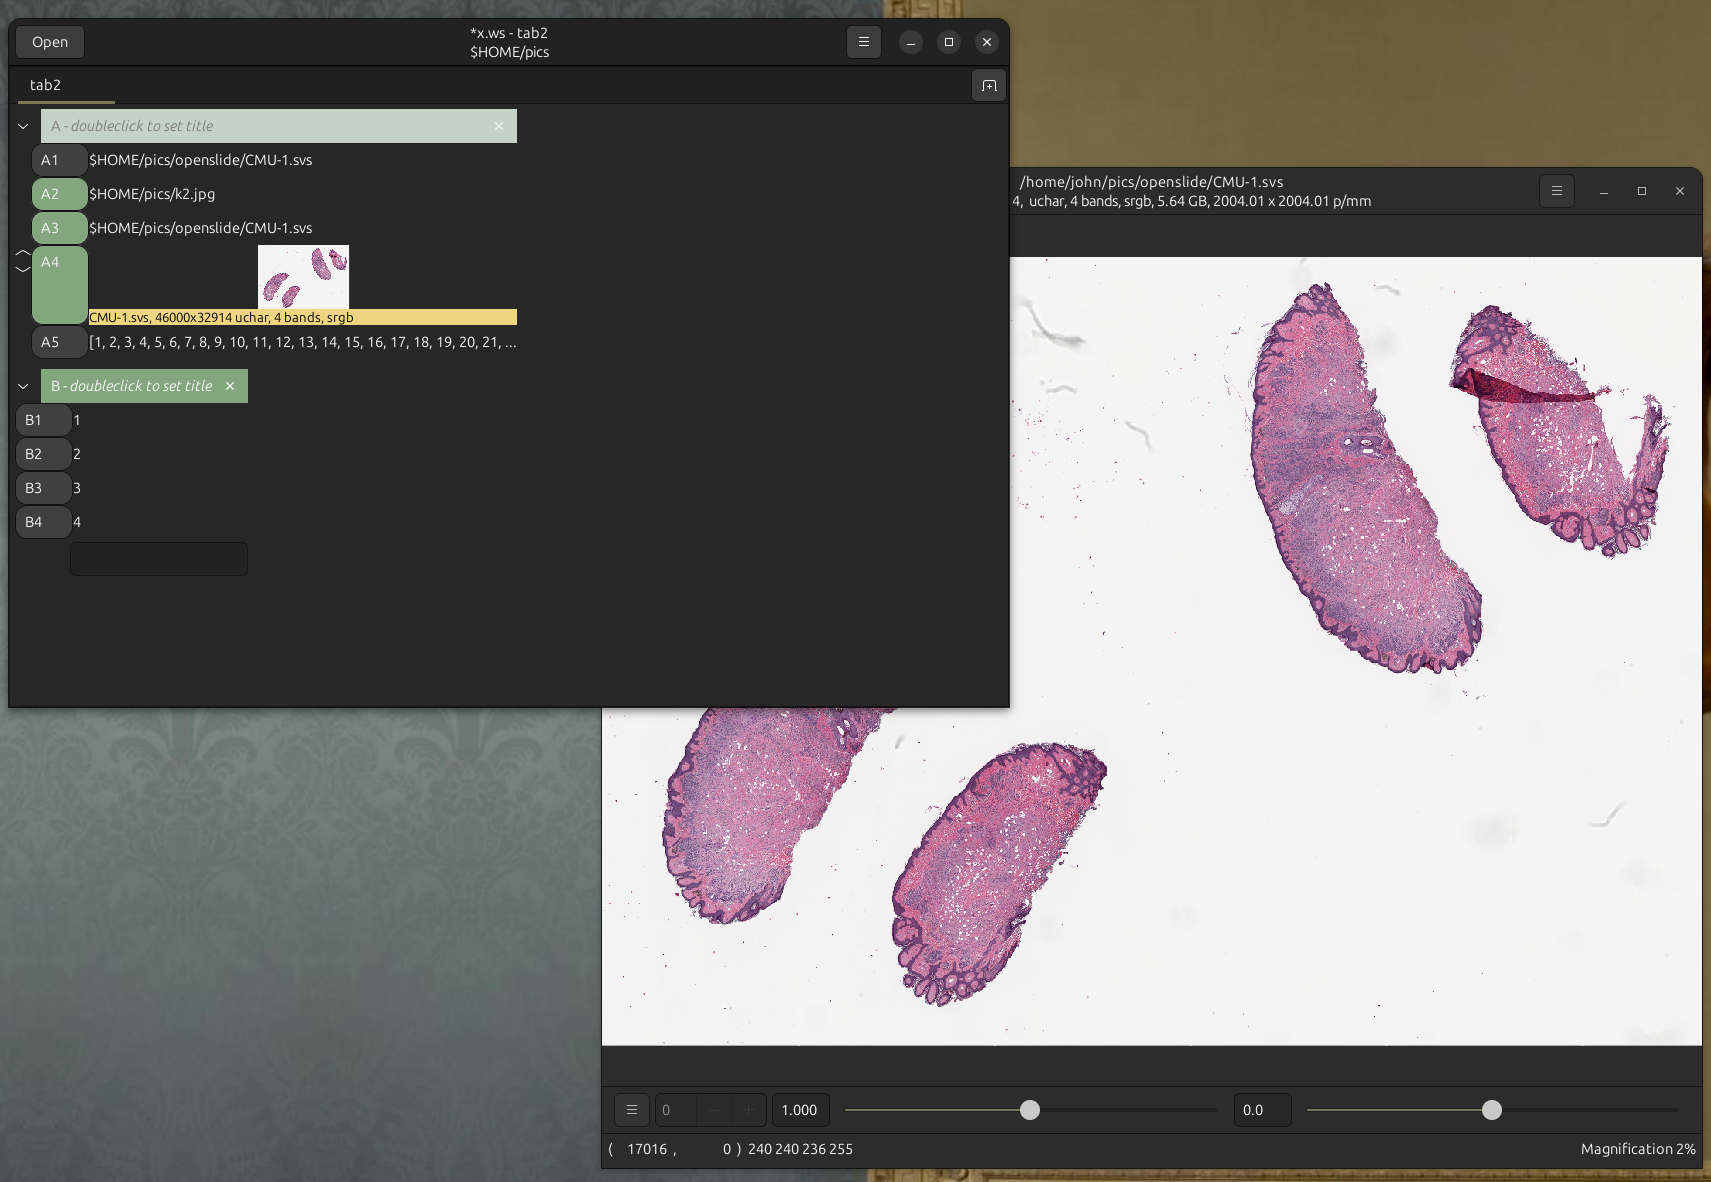
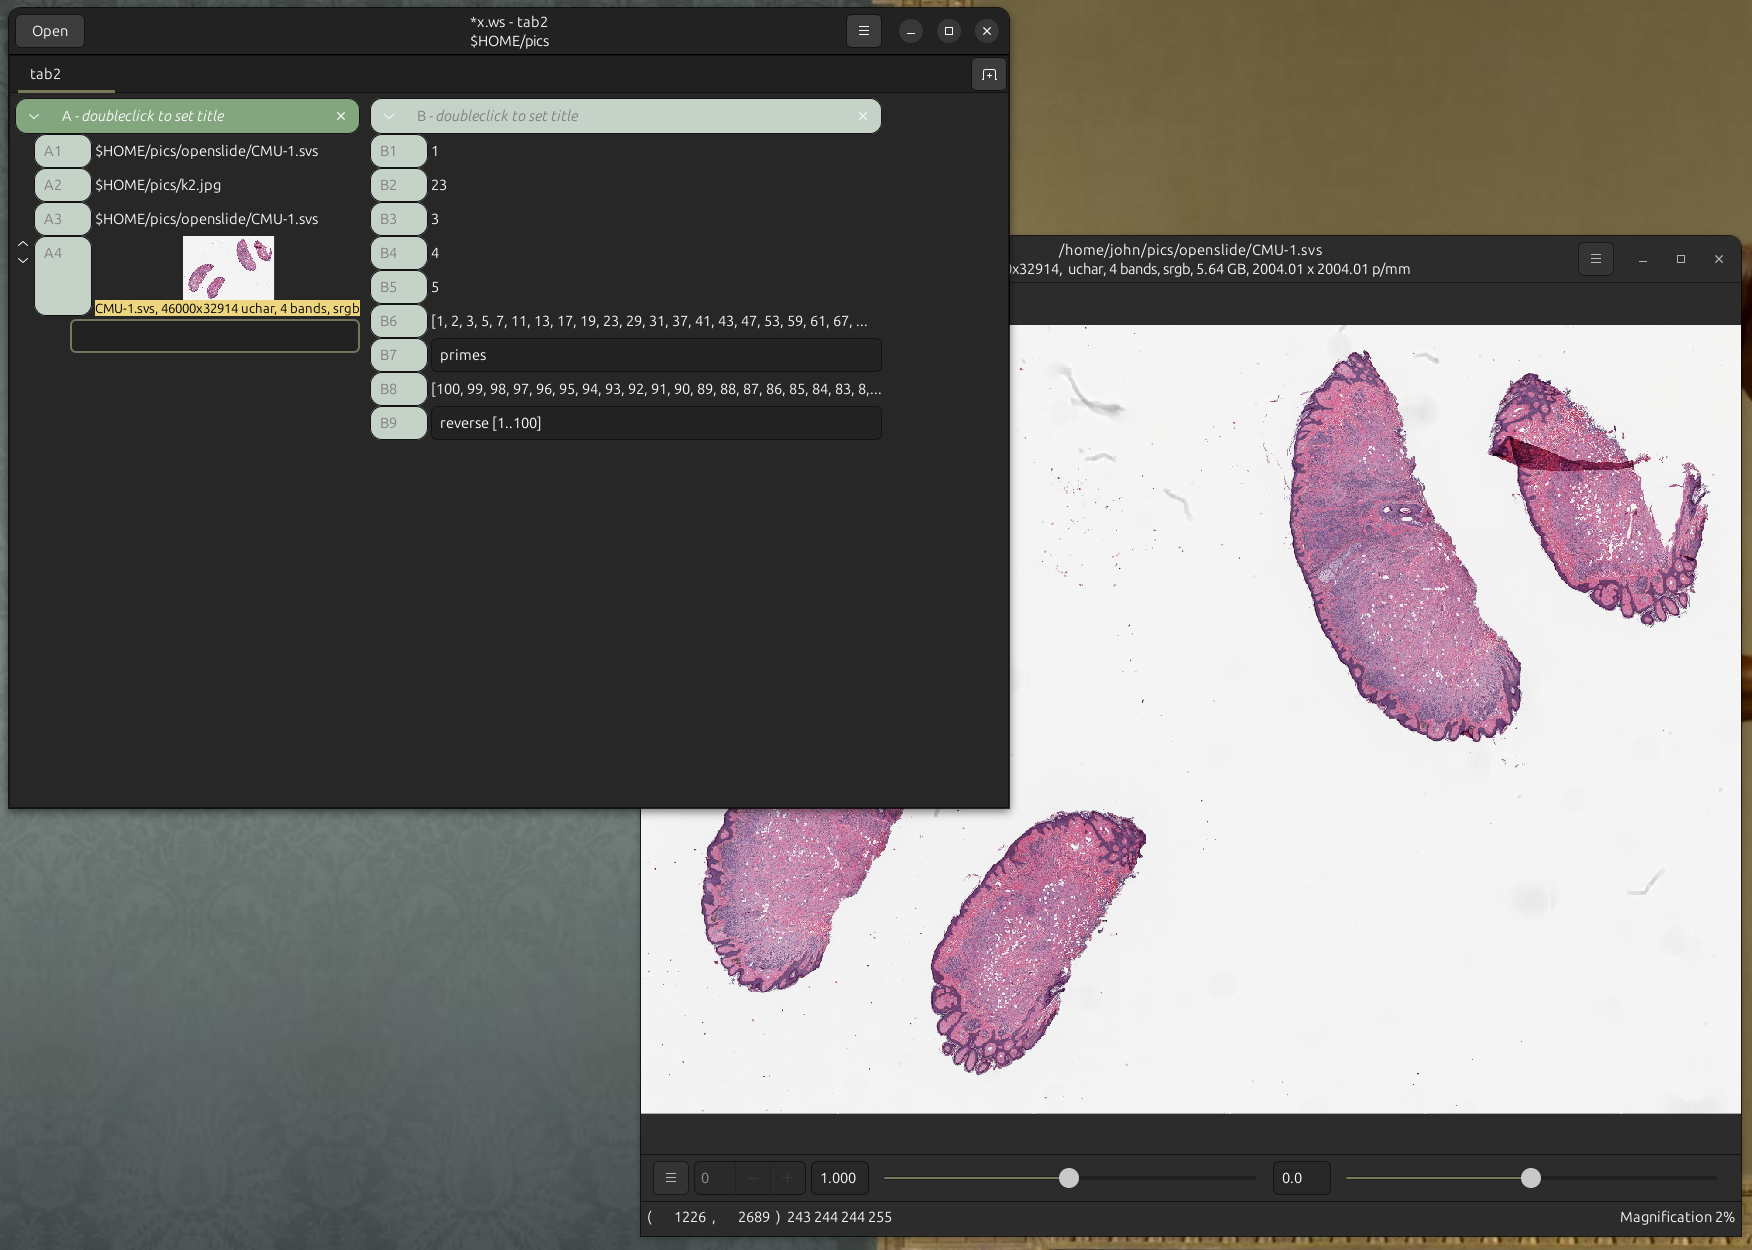
style columnview

Changed region(s): [[0.0, 0.0, 1.0, 1.0]]

diff --git a/src/gtk/nip4.css b/src/gtk/nip4.css
@@ -20,7 +20,8 @@
 }
 
 .widget {
-  background-color: #404040;
+  background-color: #C5D2C8;
+  color: grey;
 }
 
 

diff --git a/src/columnview.c b/src/columnview.c
@@ -527,7 +527,9 @@ columnview_refresh(vObject *vobject)
 
 	/* Set open/closed.
 	 */
-	gtk_expander_set_expanded(GTK_EXPANDER(cview->top), col->open);
+	gtk_button_set_icon_name(GTK_BUTTON(cview->expand_button), col->open ?
+		"pan-down-symbolic" : "pan-end-symbolic");
+	gtk_widget_set_visible(cview->body, col->open);
 
 	/* Closed columns are hidden in NOEDIT mode.
 	 */
@@ -642,6 +644,15 @@ columnview_scrollto(View *view, ModelScrollPosition position)
 }
 
 static void
+columnview_expand_clicked(GtkGestureClick *gesture,
+	guint n_press, double x, double y, Columnview *cview)
+{
+	Column *col = COLUMN(VOBJECT(cview)->iobject);
+
+	column_set_open(col, !col->open);
+}
+
+static void
 columnview_menu(GtkGestureClick *gesture,
 	guint n_press, double x, double y, Columnview *cview)
 {
@@ -717,12 +728,14 @@ columnview_class_init(ColumnviewClass *class)
 	gtk_widget_class_set_layout_manager_type(GTK_WIDGET_CLASS(class),
 		GTK_TYPE_BIN_LAYOUT);
 
+	BIND_CALLBACK(columnview_expand_clicked);
 	BIND_CALLBACK(columnview_menu);
 	BIND_CALLBACK(columnview_activate);
 	BIND_CALLBACK(columnview_close_clicked);
 
 	BIND_VARIABLE(Columnview, top);
 	BIND_VARIABLE(Columnview, title);
+	BIND_VARIABLE(Columnview, expand_button);
 	BIND_VARIABLE(Columnview, label);
 	BIND_VARIABLE(Columnview, head);
 	BIND_VARIABLE(Columnview, body);

diff --git a/src/columnview.h b/src/columnview.h
@@ -57,13 +57,14 @@ struct _Columnview {
 
 	/* Display parts.
 	 */
-	GtkWidget *top;		/* Enclosing widget for the whole cview */
-	GtkWidget *title;	/* Columnview titlebar */
-	GtkWidget *label;	/* Columnview name label */
-	GtkWidget *head;	/* Columnview caption */
-	GtkWidget *entry;	/* Text entry at bottom */
-	GtkWidget *capedit; /* Shadow text for editing caption */
-	GtkWidget *body;	/* The body of the columnview */
+	GtkWidget *top;				/* Enclosing widget for the whole cview */
+	GtkWidget *title;			/* Columnview titlebar */
+	GtkWidget *expand_button;	/* Expander button */
+	GtkWidget *label;			/* Columnview name label */
+	GtkWidget *head;			/* Columnview caption */
+	GtkWidget *entry;			/* Text entry at bottom */
+	GtkWidget *capedit;			/* Shadow text for editing caption */
+	GtkWidget *body;			/* The body of the columnview */
 
 	/* Context menu for titlebar.
 	 */
